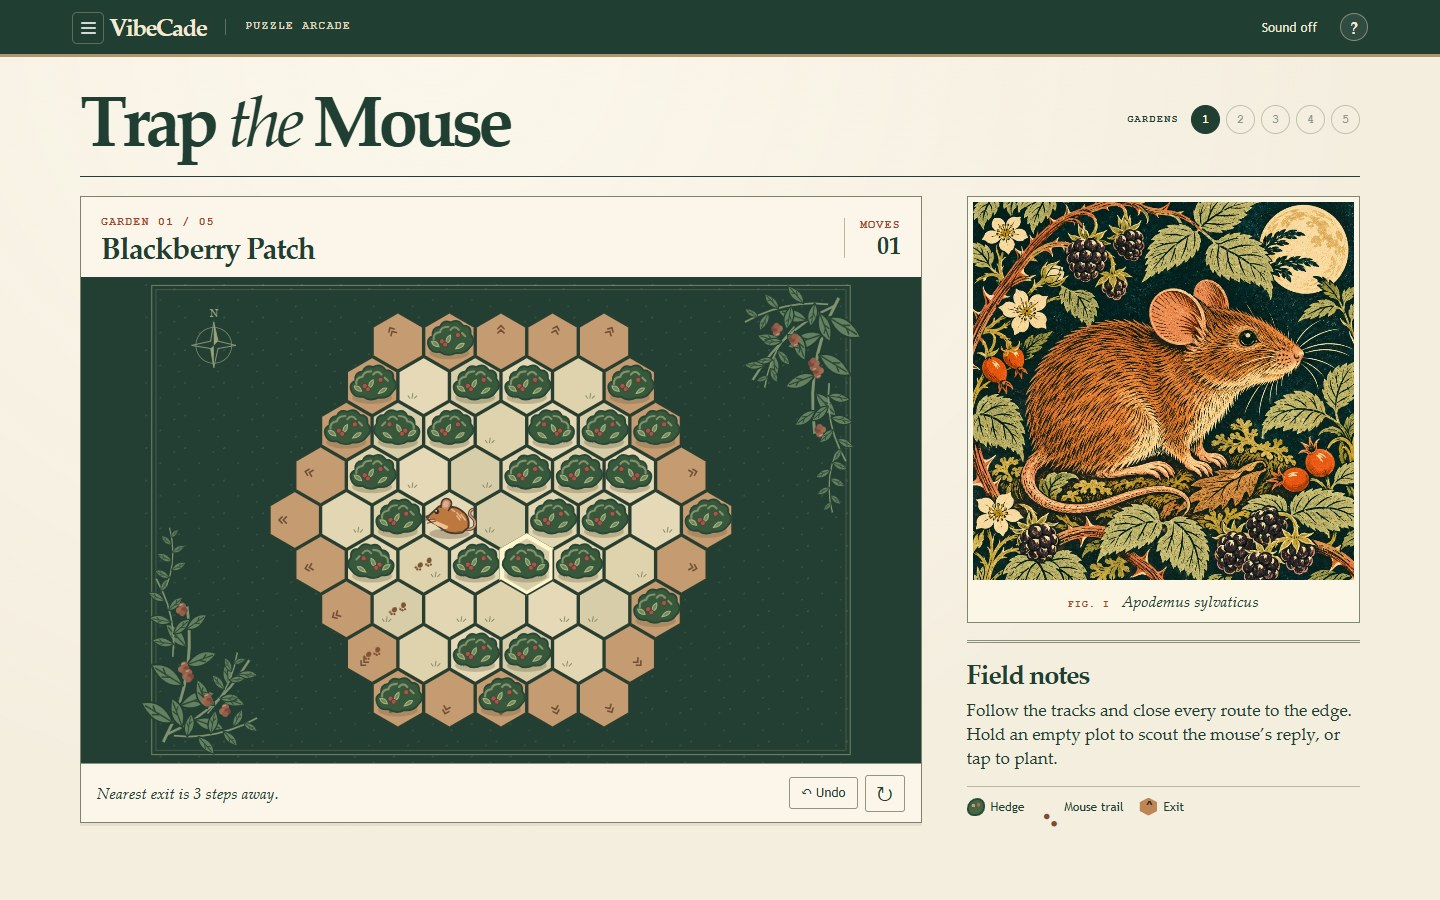
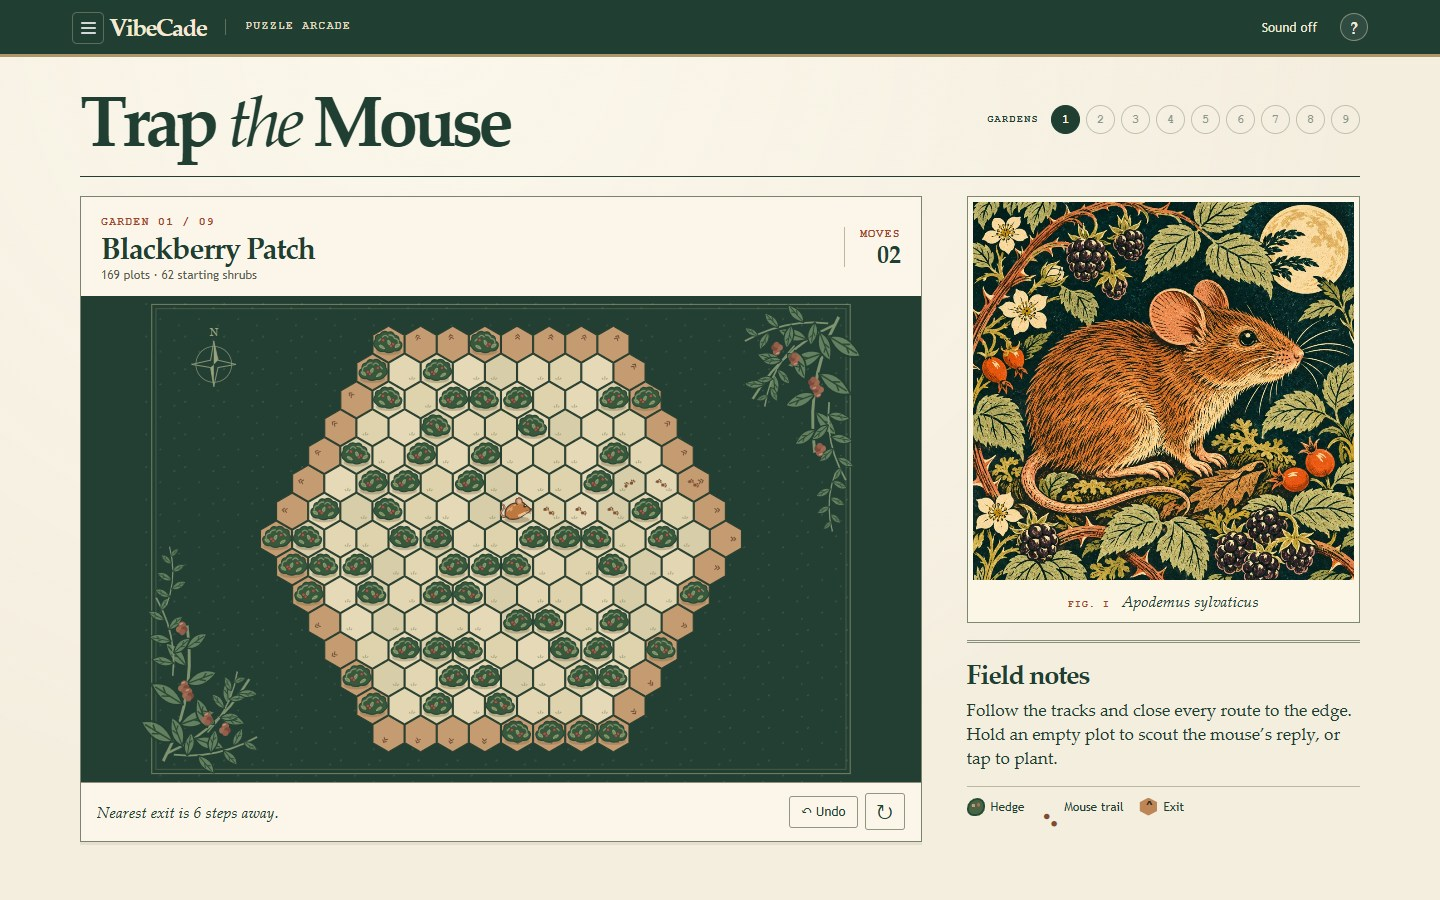
Give Trap the Mouse nine shrinking gardens with fewer starting shrubs

Changed region(s): [[0.0312, 0.2489, 0.6562, 0.9333], [0.7812, 0.0933, 0.8438, 0.1556], [0.6875, 0.0933, 0.75, 0.1556]]

diff --git a/trap-the-mouse/gardens.js b/trap-the-mouse/gardens.js
@@ -1,57 +1,63 @@
-export const radius = 4;
 const directions = [[1,0],[0,1],[-1,1],[-1,0],[0,-1],[1,-1]];
-export const cells = [];
-const indices = new Map();
-for (let r = -radius; r <= radius; r++) {
-  for (let q = Math.max(-radius, -r-radius); q <= Math.min(radius, -r+radius); q++) {
-    const id = cells.length;
-    const distance = Math.max(Math.abs(q), Math.abs(r), Math.abs(q+r));
-    cells.push({ id, q, r, edge: distance === radius });
-    indices.set([q,r].join(), id);
-  }
-}
-for (const cell of cells) {
-  cell.neighbors = directions.map(([dq,dr]) => indices.get([cell.q+dq,cell.r+dr].join())).filter(id => id !== undefined);
-}
-export const burrow = indices.get('0,0');
 
-// The trail and the mouse both use this walk. Equal-length routes break ties
-// in compass order, so replaying the same move always gets the same response.
-export function escapeRoute(mouse, hedges) {
-  const parents = new Int16Array(cells.length).fill(-1);
-  const queue = [mouse];
-  parents[mouse] = mouse;
-  for (let head = 0; head < queue.length; head++) {
-    let id = queue[head];
-    if (cells[id].edge) {
-      const path = [];
-      while (id !== mouse) {
-        path.push(id);
-        id = parents[id];
+export function createBoard(width) {
+  const low = -Math.floor(width/2), high = low+width-1;
+  const cells = [], indices = new Map();
+  for (let r = low; r <= high; r++) {
+    const first = Math.max(low,low-r);
+    for (let q = first; q <= Math.min(high,high-r); q++) {
+      const id = cells.length;
+      cells.push({id,q,r,row:r-low+1,column:q-first+1});
+      indices.set([q,r].join(),id);
+    }
+  }
+  for (const cell of cells) {
+    cell.neighbors = directions.map(([dq,dr]) => indices.get([cell.q+dq,cell.r+dr].join())).filter(id => id !== undefined);
+    cell.edge = cell.neighbors.length < 6;
+  }
+
+  // The trail and the mouse both use this walk. Equal-length routes break ties
+  // in compass order, so replaying the same move always gets the same response.
+  function escapeRoute(mouse, hedges) {
+    const parents = new Int16Array(cells.length).fill(-1);
+    const queue = [mouse];
+    parents[mouse] = mouse;
+    for (let head = 0; head < queue.length; head++) {
+      let id = queue[head];
+      if (cells[id].edge) {
+        const path = [];
+        while (id !== mouse) {
+          path.push(id);
+          id = parents[id];
+        }
+        return path.reverse();
       }
-      return path.reverse();
+      for (const next of cells[id].neighbors) {
+        if (parents[next] !== -1 || hedges.has(next)) continue;
+        parents[next] = id;
+        queue.push(next);
+      }
     }
-    for (const next of cells[id].neighbors) {
-      if (parents[next] !== -1 || hedges.has(next)) continue;
-      parents[next] = id;
-      queue.push(next);
-    }
+    return null;
   }
-  return null;
+  return {cells,burrow:indices.get("0,0"),escapeRoute};
 }
-
 
 export const gardens = [
-  {name:'Blackberry Patch', bloom:'#a75449', hedges:[1,5,7,8,10,11,12,13,15,16,17,19,22,23,24,28,31,32,34,36,38,40,49,52,53,56,58]},
-  {name:'Clover Hollow', bloom:'#ab7181', hedges:[2,5,6,7,9,10,15,19,20,22,23,24,29,31,32,41,42,44,45,47,48,49,52,53,60]},
-  {name:'Marigold Walk', bloom:'#c48738', hedges:[6,7,8,12,18,19,21,23,24,25,26,31,33,34,35,36,41,42,43,51,53,54]},
-  {name:'Foxglove Close', bloom:'#a16e99', hedges:[5,8,10,14,16,18,19,20,26,27,32,33,34,38,39,40,42,46,48,59]},
-  {name:'Moonflower Maze', bloom:'#e9dba6', hedges:[4,6,9,15,17,20,22,24,25,27,32,37,41,43,45,50,53,55,56,59]}
+  {name:'Blackberry Patch', bloom:'#a75449', width:15, hedges:[0,3,8,10,18,20,21,25,26,30,39,41,43,47,52,53,55,59,64,66,74,77,78,81,82,85,86,87,89,92,93,94,97,98,99,102,106,108,110,111,118,125,126,128,133,134,135,138,139,141,142,145,146,149,150,152,154,156,165,166,167,168]},
+  {name:'Clover Hollow', bloom:'#ab7181', width:14, hedges:[1,7,8,16,23,25,29,32,34,36,45,54,55,57,58,59,60,61,63,67,68,70,71,78,80,82,85,87,92,94,96,98,100,104,106,108,111,113,114,120,122,124,126,128,129,133,138,141,142,143,146]},
+  {name:'Marigold Walk', bloom:'#c48738', width:13, hedges:[3,4,8,13,14,19,20,21,22,23,26,28,30,32,33,38,41,48,49,50,51,54,55,57,62,66,67,70,71,77,78,79,81,82,85,89,90,93,103,104,105,122]},
+  {name:'Bramble Orchard', bloom:'#95545c', width:12, hedges:[2,6,9,13,14,21,23,34,37,40,41,43,45,64,71,72,73,74,76,78,79,80,82,83,84,85,86,87,89,90,91,94,98,100]},
+  {name:'Foxglove Close', bloom:'#a16e99', width:11, hedges:[2,4,6,8,14,16,19,20,26,28,30,31,34,37,39,43,44,50,51,52,55,57,60,68,69,75,89]},
+  {name:'Briar Terrace', bloom:'#c16c55', width:10, hedges:[1,17,27,37,41,44,47,51,52,53,54,55,56,59,60,61,64,65,66,74]},
+  {name:'Thistle Gate', bloom:'#997da1', width:9, hedges:[0,2,3,8,9,10,15,16,25,28,40,41,50,55,59]},
+  {name:'Yew Pocket', bloom:'#ab6049', width:8, hedges:[5,9,13,16,22,23,24,30,34,35,41]},
+  {name:'Moonflower Maze', bloom:'#e9dba6', width:7, hedges:[2,17,19,29,31,34,36]}
 ];
 
 // Wild gardens retain the original game's fresh layouts. Verify a line of
 // play before offering one, with a bounded search and a known-good fallback.
-export function wildGarden() {
+export function wildGarden({cells,burrow,escapeRoute}) {
   function canCatch(mouse, hedges, turns, budget) {
     if (--budget.left < 0 || !turns || cells[mouse].edge) return false;
     for (const tile of escapeRoute(mouse, hedges)) {
@@ -68,5 +74,5 @@ export function wildGarden() {
     const layout = new Set(cells.filter(c => c.id !== burrow && Math.random() < (c.edge ? .28 : .42)).map(c => c.id));
     if (escapeRoute(burrow, layout) && canCatch(burrow, layout, 7, {left:600})) return [...layout];
   }
-  return [...gardens[Math.floor(Math.random() * gardens.length)].hedges];
+  return [...gardens.find(garden => garden.width === 9).hedges];
 }

diff --git a/trap-the-mouse/game.js b/trap-the-mouse/game.js
@@ -1,4 +1,4 @@
-import {cells, burrow, escapeRoute, gardens, wildGarden} from './gardens.js';
+import {createBoard, gardens, wildGarden} from './gardens.js';
 import {svg, stamp, center, preparePlate} from './illustrations.js';
 
 const $ = id => document.getElementById(id);
@@ -6,7 +6,9 @@ const board = $('board'), modal = $('instruction-modal');
 const seenKey = 'vibecade-instructions-trap-the-mouse';
 function read(store, key) { try { return window[store].getItem(key); } catch { return null; } }
 function save(store, key, value) { try { window[store].setItem(key, value); } catch { /* Play without storage. */ } }
-const recordKey = i => 'vibecade-mouse-garden-best-' + i;
+// The old five gardens had different layouts and move records.
+const recordKey = i => 'vibecade-mouse-nine-gardens-best-' + i;
+const legacyWild = [0,1,2,3,4].every(i => Number(read('localStorage','vibecade-mouse-garden-best-'+i)) > 0);
 const best = gardens.map((_,i) => {
   const v = Number(read('localStorage',recordKey(i)));
   return Number.isSafeInteger(v) && v > 0 ? v : null;
@@ -16,6 +18,7 @@ function unlocked() {
   return next < 0 ? gardens.length : next;
 }
 let stage = unlocked(), wildLayout = [], hedges, mouse, route, outcome, history, selected, face = 1;
+let gardenBoard, cells, escapeRoute, boardWidth;
 let guardedUntil = 0, sound = read('localStorage','vibecade-mouse-sound') === 'on', audio;
 const reducedMotion = matchMedia('(prefers-reduced-motion: reduce)');
 const portrait = matchMedia('(max-width:640px) and (orientation:portrait)');
@@ -41,7 +44,19 @@ function chime(notes) {
   } catch { /* Sound is optional. */ }
 }
 
-function makePlots() {
+function makePlots(width) {
+  if (width === boardWidth) return;
+  boardWidth = width;
+  gardenBoard = createBoard(width);
+  ({cells,escapeRoute} = gardenBoard);
+  $('plots').replaceChildren();
+  figures.length = plots.length = 0;
+  const centers = cells.map(center);
+  const xs = centers.map(p=>p.x), ys = centers.map(p=>p.y);
+  const midX = (Math.min(...xs)+Math.max(...xs))/2, midY = (Math.min(...ys)+Math.max(...ys))/2;
+  // Let bigger gardens fill the plate, while keeping the final plots easy to tap.
+  const scale = (7.75 + (width-7)*.2)/width;
+  $('planting-bed').setAttribute('transform',`translate(340 231) scale(${scale}) translate(${-midX} ${-midY})`);
   for (const cell of cells) {
     const {x,y} = center(cell);
     const plot = svg('g',{class:'cell',transform:`translate(${x} ${y})`,role:'button','data-cell':cell.id});
@@ -79,7 +94,7 @@ function drawBoard(previous = mouse) {
     figures[c.id].setAttribute('visibility',occupied?'visible':'hidden');
     const trailIndex = route?.indexOf(c.id) ?? -1;
     const description = occupied ? 'hedge' : here ? 'mouse' : trailIndex >= 0 ? 'mouse trail, step '+(trailIndex+1) : 'empty';
-    plots[c.id].setAttribute('aria-label',`Row ${c.r+5}, plot ${c.q-Math.max(-4,-c.r-4)+1}, ${description}${c.edge?', exit':''}`);
+    plots[c.id].setAttribute('aria-label',`Row ${c.row}, plot ${c.column}, ${description}${c.edge?', exit':''}`);
     plots[c.id].setAttribute('aria-disabled',String(occupied || here || !!outcome));
     plots[c.id].setAttribute('tabindex',c.id === selected && !outcome ? '0':'-1');
   }
@@ -102,14 +117,15 @@ function drawBoard(previous = mouse) {
 function drawChapters() {
   const trail = $('trail');
   trail.replaceChildren();
-  for (let i=0; i < gardens.length + Number(unlocked()===gardens.length); i++) {
+  const progress = unlocked();
+  for (let i=0; i < gardens.length + Number(legacyWild || progress===gardens.length); i++) {
     const b = document.createElement('button');
     b.textContent = i===gardens.length ? '✤' : String(i+1);
     let name = gardens[i]?.name || 'Wild garden';
     if (best[i]) name += `, best ${best[i]} moves`;
     b.title = name; b.setAttribute('aria-label',name);
     if (i===stage) b.setAttribute('aria-current','step');
-    b.disabled = i > unlocked();
+    b.disabled = i < gardens.length && i > progress;
     b.addEventListener('click',()=>{ if (stage!==i) begin(i,true); });
     trail.append(b);
   }
@@ -122,11 +138,13 @@ function begin(i, fresh = false) {
   endScout();
   stage = i;
   const garden = gardens[i];
-  if (!garden && (fresh || !wildLayout.length)) wildLayout = wildGarden();
+  makePlots(garden?.width ?? 9);
+  if (!garden && (fresh || !wildLayout.length)) wildLayout = wildGarden(gardenBoard);
   hedges = new Set(garden?.hedges || wildLayout);
-  history = []; mouse = burrow; outcome = ''; face = 1; guardedUntil = 0;
+  history = []; mouse = gardenBoard.burrow; outcome = ''; face = 1; guardedUntil = 0;
   route = escapeRoute(mouse,hedges); selected = route[0];
-  $('garden-number').textContent = garden ? `Garden ${pad(i+1)} / 05` : 'Endless gardens';
+  $('garden-number').textContent = garden ? `Garden ${pad(i+1)} / ${pad(gardens.length)}` : 'Endless gardens';
+  $('garden-size').textContent = `${cells.length} plots · ${hedges.size} starting shrubs`;
   $('garden-name').textContent = garden?.name || 'The Wild Garden';
   board.style.setProperty('--bloom',garden?.bloom || '#c7a15f');
   $('result').hidden = true;
@@ -306,5 +324,5 @@ $('reset-button').addEventListener('click',()=>{ if (!modal.open) begin(stage); 
 $('undo').addEventListener('click',undoMove);
 function frame() { board.setAttribute('viewBox', portrait.matches ? '105 25 470 412' : '0 0 680 462'); }
 portrait.addEventListener('change',frame);
-preparePlate(); makePlots(); frame(); begin(stage); syncSound();
+preparePlate(); frame(); begin(stage); syncSound();
 if (read('sessionStorage',seenKey)!=='1') openHelp();

diff --git a/trap-the-mouse/index.html b/trap-the-mouse/index.html
@@ -32,16 +32,18 @@
     <div class="spread">
       <section class="play" aria-labelledby="garden-name">
         <div class="map-head">
-          <div><span id="garden-number" class="label"></span><h2 id="garden-name"></h2></div>
+          <div><span id="garden-number" class="label"></span><h2 id="garden-name"></h2><span id="garden-size"></span></div>
           <div class="moves"><span class="label">Moves</span><strong id="move-count">00</strong></div>
         </div>
         <div class="map">
           <svg id="board" viewBox="0 0 680 462" aria-label="Garden board" role="group">
             <defs id="symbols"></defs><g id="engraving" aria-hidden="true"></g>
+            <g id="planting-bed">
             <g id="plots" role="group" aria-label="Planting plots"></g>
             <g id="tracks" aria-hidden="true" pointer-events="none"></g>
             <g id="runner" aria-hidden="true" pointer-events="none"><g id="hop"><use href="#field-mouse"></use></g></g>
             <g id="forecast" aria-hidden="true" pointer-events="none"></g>
+            </g>
           </svg>
           <div id="result" hidden><div class="result-card"><span class="label" id="result-label"></span><h2 id="result-title"></h2><p id="result-detail"></p><button class="primary" id="advance"></button></div></div>
         </div>
@@ -64,7 +66,7 @@
       <img src="woodmouse.webp" alt="" width="640" height="640">
       <div class="cover-copy"><span class="label">Garden field guide</span>
         <h2 id="cover-title">Trap <em>the</em> Mouse</h2>
-        <p>Plant a hedge on an empty plot. The mouse takes one step toward the edge.</p>
+        <p>Plant a hedge. The mouse takes one step toward the edge. Each of the nine gardens is smaller and starts with fewer shrubs.</p>
         <p>Follow its tracks and close every way out. Hold a plot to scout your move. Lift to cancel.</p>
         <p class="keyboard">Use the arrows to choose a plot, hold P to scout, and press Enter to plant. U undoes a move.</p>
         <button class="primary" id="instruction-close" autofocus>Enter the garden <span aria-hidden="true">→</span></button>

diff --git a/trap-the-mouse/garden.css b/trap-the-mouse/garden.css
@@ -44,6 +44,7 @@ h1 em, #cover-title em { font-weight: 400; }
 .map-head { padding: 13px 20px 12px; }
 .map-head .label,.field-notes .label,.cover .label { color: var(--rust); }
 .map-head h2 { font-size: clamp(22px,2.1vw,33px); letter-spacing: -.04em; line-height: 1.15; }
+#garden-size { display:block; margin-top:3px; color:var(--faint); font:12px/1.3 var(--sans); }
 .moves { display: grid; text-align: right; padding-left: 15px; border-left: 1px solid var(--rule); }
 .moves strong { font: 600 24px/1.05 var(--serif); font-variant-numeric: tabular-nums; }
 .map { position: relative; display: grid; place-items: center; background: #233f34; overflow: hidden; }

diff --git a/offline-assets.js b/offline-assets.js
@@ -1,8 +1,8 @@
 // Generated by scripts/build-offline.cjs. Do not edit by hand.
 self.VIBECADE_OFFLINE = {
-  "version": "3506a3e3e21bc17c",
+  "version": "2cd68f96be440084",
   "games": 58,
-  "bytes": 18790853,
+  "bytes": 18793061,
   "assets": [
     "alpine-line/art.js",
     "alpine-line/game.js",
